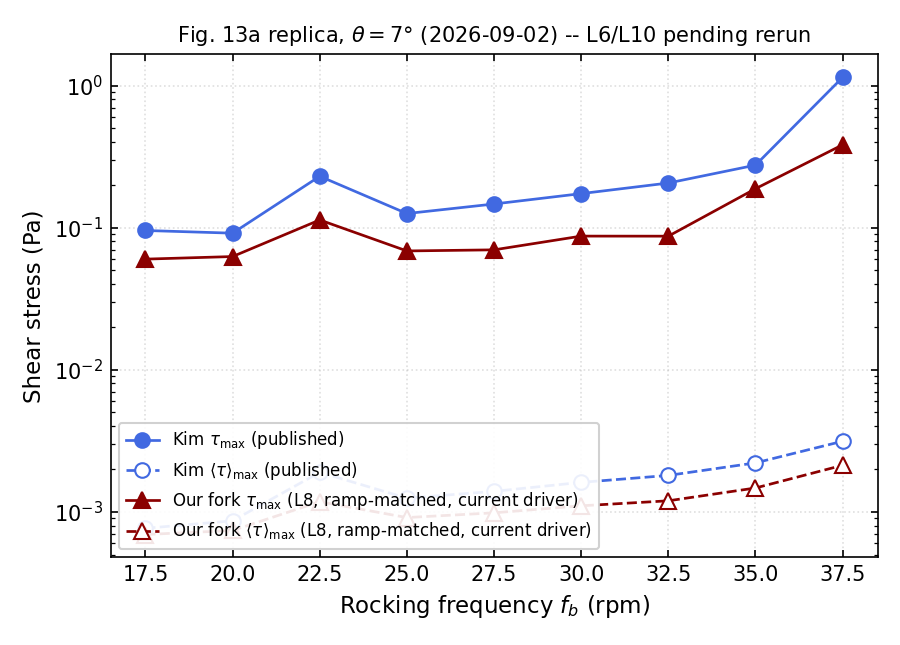
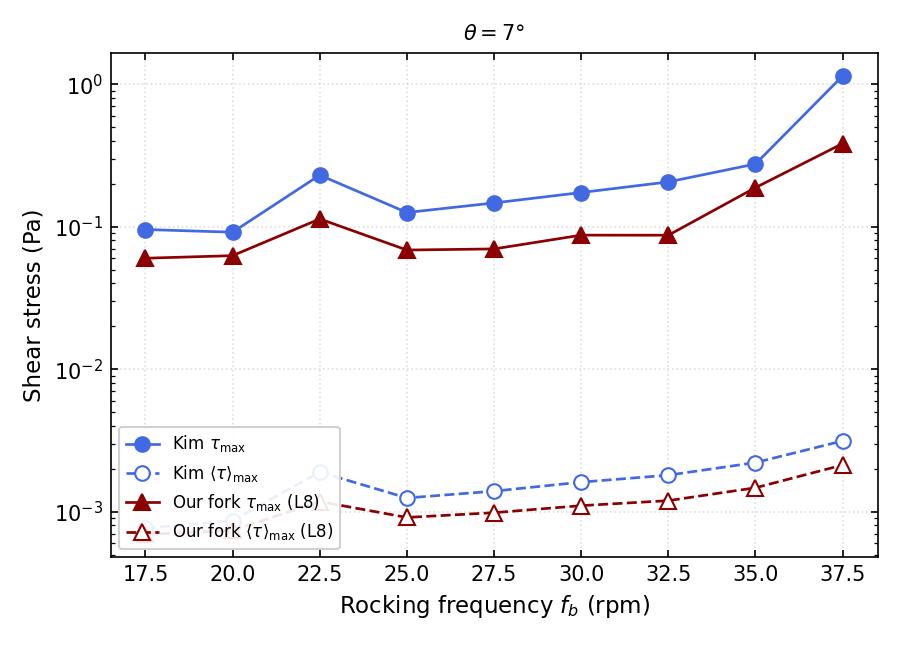
docs(claude): add figure-minimalism rule; apply it to Fig 13a replica
User pushback: title carried status/caveat text ("L6/L10 pending rerun")
and the "replica" qualifier that the filename/directory already convey;
legend annotated series with qualifiers that are always true ("(published)"
on Kim's data, "(ramp-matched, current driver)" on our own -- the assumed
baseline for any current run, not a special condition worth restating).

.claude/CLAUDE.md now codifies: axes carry the physical quantity, titles
carry only the condition (or nothing), status/provenance belongs in the
diary/caption/filename, and legend qualifiers are reserved for the actual
point of a comparison.

Claude-Session: https://claude.ai/code/session_01YAKLKMs5oUYu8r6RenvudK

diff --git a/scripts/plot_fig13a_current.py b/scripts/plot_fig13a_current.py
@@ -47,19 +47,19 @@ ours = pd.DataFrame(rows).sort_values("rpm")
 fig, ax = plt.subplots(figsize=(6, 4.3))
 
 ax.plot(kim["RPM"], kim["tau_liq_max"], color="royalblue", marker="o", ms=7, lw=1.3,
-        label=r"Kim $\tau_\mathrm{max}$ (published)")
+        label=r"Kim $\tau_\mathrm{max}$")
 ax.plot(kim["RPM"], kim["tau_liq_mean"], color="royalblue", marker="o", ms=7, lw=1.3, ls="--",
-        markerfacecolor="white", label=r"Kim $\langle\tau\rangle_\mathrm{max}$ (published)")
+        markerfacecolor="white", label=r"Kim $\langle\tau\rangle_\mathrm{max}$")
 
 ax.plot(ours["rpm"], ours["tau_max"], color="darkred", marker="^", ms=8, lw=1.3,
-        label=r"Our fork $\tau_\mathrm{max}$ (L8, ramp-matched, current driver)")
+        label=r"Our fork $\tau_\mathrm{max}$ (L8)")
 ax.plot(ours["rpm"], ours["tau_mean_max"], color="darkred", marker="^", ms=8, lw=1.3, ls="--",
-        markerfacecolor="white", label=r"Our fork $\langle\tau\rangle_\mathrm{max}$ (L8, ramp-matched, current driver)")
+        markerfacecolor="white", label=r"Our fork $\langle\tau\rangle_\mathrm{max}$ (L8)")
 
 ax.set_xlabel(r"Rocking frequency $f_b$ (rpm)", fontsize=11)
 ax.set_ylabel("Shear stress (Pa)", fontsize=11)
 ax.set_yscale("log")
-ax.set_title(r"Fig. 13a replica, $\theta=7°$ (2026-09-02) -- L6/L10 pending rerun", fontsize=10)
+ax.set_title(r"$\theta=7°$", fontsize=10)
 ax.tick_params(which="both", direction="in", top=True, right=True)
 ax.grid(True, which="major", ls=":", alpha=0.4)
 ax.legend(fontsize=8, framealpha=0.9, loc="lower left")

diff --git a/.claude/CLAUDE.md b/.claude/CLAUDE.md
@@ -1,0 +1,21 @@
+## Figures
+
+Figures are minimalistic.
+
+- **Axes**: label with the physical quantity (and units). Good, keep doing
+  this.
+- **Title**: the quantity/condition only (e.g. `theta=7deg`), or omit it
+  entirely if the axes already say it. Never put status, provenance, or
+  caveat text in a title -- "L6/L10 pending rerun", "partial", "as of
+  2026-09-02" etc. belong in the diary, the commit message, or a doc
+  caption next to the image, not baked into the image itself. The
+  filename and its directory already carry versioning context
+  (`figure_replicas/replicated_Fig13.png` already says "replica of Fig
+  13" -- don't restate "replica" inside the plot too).
+- **Legend**: label each series once, tersely. Don't annotate a series
+  with a qualifier that is always true of it -- "(published)" after
+  "Kim" is redundant, Kim's numbers are always published; "(ramp-matched,
+  current driver)" on our own series is redundant, that's the assumed
+  baseline for every current run, not a special condition. Only add a
+  qualifier when it's the actual point of the comparison (e.g. plotting
+  ramp-matched against not-ramp-matched in the same figure).
